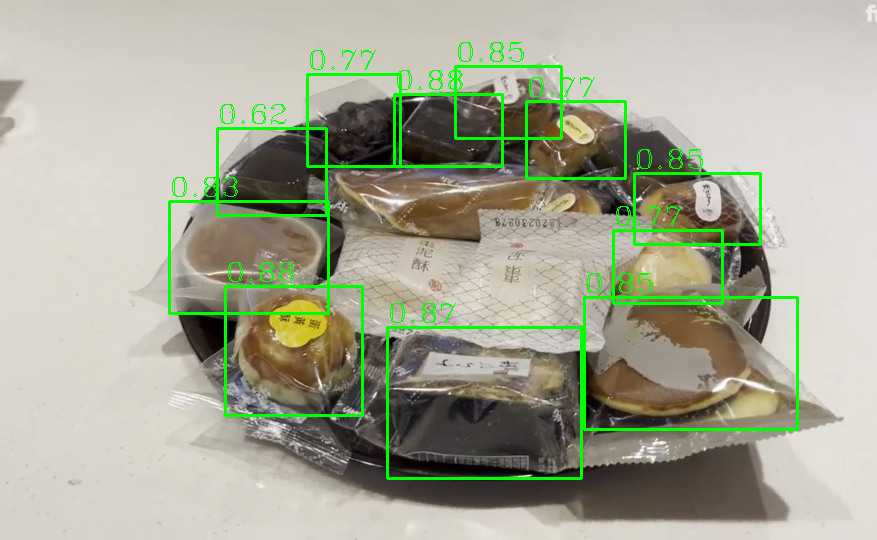
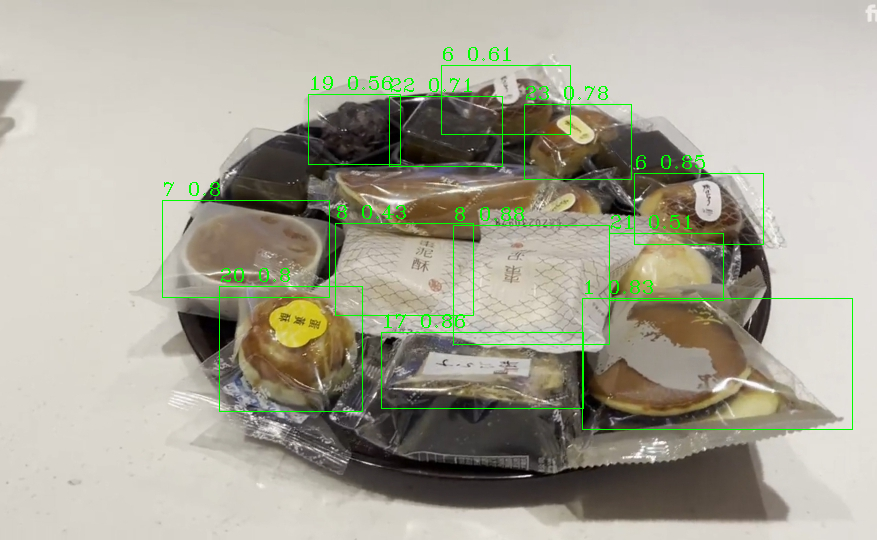
dynamics changed

Changed region(s): [[0.1847, 0.0593, 0.9236, 0.8889], [0.862, 0.3259, 0.8928, 0.4444], [0.4926, 0.3852, 0.6157, 0.4148]]

diff --git a/test.py b/test.py
@@ -5,14 +5,15 @@ from pymongo import MongoClient
 from os import getcwd
 import certifi
 from flask_cors import CORS
-from yolov8 import YOLOv8
 from collections import Counter
-
+from yolov8 import YOLOv8
 
 BASE_DIR = getcwd()
 model = None
-class_names = None
 loaded_model = None
+model = YOLOv8('model/CakeShop.onnx', conf_thres=0.3, iou_thres=0.4)
+with open('model/CakeShop.txt', "r") as file:
+    class_names = [line.strip() for line in file.readlines()]
 
 cluster = MongoClient("mongodb+srv://rex:13579007@cluster0.kku4atv.mongodb.net/?retryWrites=true&w=majority", tlsCAFile=certifi.where())
 db = cluster["product_data"]
@@ -23,8 +24,8 @@ def get_value(name, data):
             return data[d]['value'], data[d]['name']
     return '', ''
 
-def run_inference(model):
-    global class_names
+def run_inference():
+    global class_names, model
     image = cv2.imread(BASE_DIR+'/temp.png')
     boxes, scores, class_ids = model(image)
 
@@ -42,7 +43,7 @@ def run_inference(model):
 
         things_found.append(name)
     
-    return image, things_found, list_of_coords
+    return things_found, list_of_coords
 
 app = Flask(__name__)
 CORS(app)
@@ -66,31 +67,12 @@ def run_cheating_module():
     except:
         return jsonify({'detail':'Invalid image type'})
 
-    model_name = request.form.get('ModelName')
-    print(model_name)
-    model_name = 'CakeShop'
-
-    #Loading model
-    if not model_name:
-        return jsonify({'Error':'Model name not found'})
-    
-    model_path = BASE_DIR+'/model/'+model_name+'.onnx'
-    
-    if not os.path.exists(model_path):
-        return jsonify({'Error':BASE_DIR+'/model/'+model_name+'.onnx'+' such name does not exist'})
-
-    
-    if loaded_model != model_name:
-        model = YOLOv8(model_path, conf_thres=0.3, iou_thres=0.4)
-        with open(BASE_DIR+'/model/'+model_name+'.txt', "r") as file:
-            class_names = [line.strip() for line in file.readlines()]
-        loaded_model = model_name
-
+    # model_name = request.form.get('ModelName')
     try:
         #Running detection on given image
-        img,list_of_products, list_of_coords = run_inference(model)
+        list_of_products, list_of_coords = run_inference()
     except:
-        return jsonify({'Error':'Error running inference ', 'MODEL NAME':model_name, 'LOADED MODEL NAME':loaded_model})
+        return jsonify({'Error':'Error running inference '})
 
 
     try:
@@ -108,8 +90,6 @@ def run_cheating_module():
     except:
         return jsonify({'Error':'Error hitting database'})
 
-
-    # try:
     if products != []:
         list_of_products_names = []
         list_of_products_values = []
@@ -146,15 +126,11 @@ def run_cheating_module():
         names = 'No products found'
         values = 'No products found'
 
-    cv2.imwrite(BASE_DIR+'/output.png',img)
     os.remove(BASE_DIR+'/temp.png')
 
-    print(list_of_coords)
-    return jsonify({'Products values': values,'Products names': names, 'coords':list_of_coords})
+    print(type(list_of_coords))
+    return jsonify({'coords':list_of_coords})
 
-    # except:
-    #     return jsonify({'Error':'Error running manual stuff'})
-    
 @app.route("/hello")
 def hello_world():
     return "Hello World! "+str(getcwd())

diff --git a/listtt.py b/listtt.py
@@ -1,0 +1,9 @@
+from flask import Flask, jsonify
+
+app = Flask(__name__)
+@app.route('/api/numbers', methods=['GET'])
+def get_numbers():
+    return jsonify({'coords':[(582, 298, 852, 429), (634, 173, 763, 244), (441, 65, 570, 134), (162, 200, 329, 297), (453, 225, 609, 344), (335, 223, 473, 315), (381, 332, 583, 408), (308, 94, 400, 164), (219, 286, 362, 411), (609, 233, 723, 300), (389, 96, 502, 166), (524, 104, 631, 179)]})
+if __name__ == '__main__':
+    app.run(debug=True)
+
